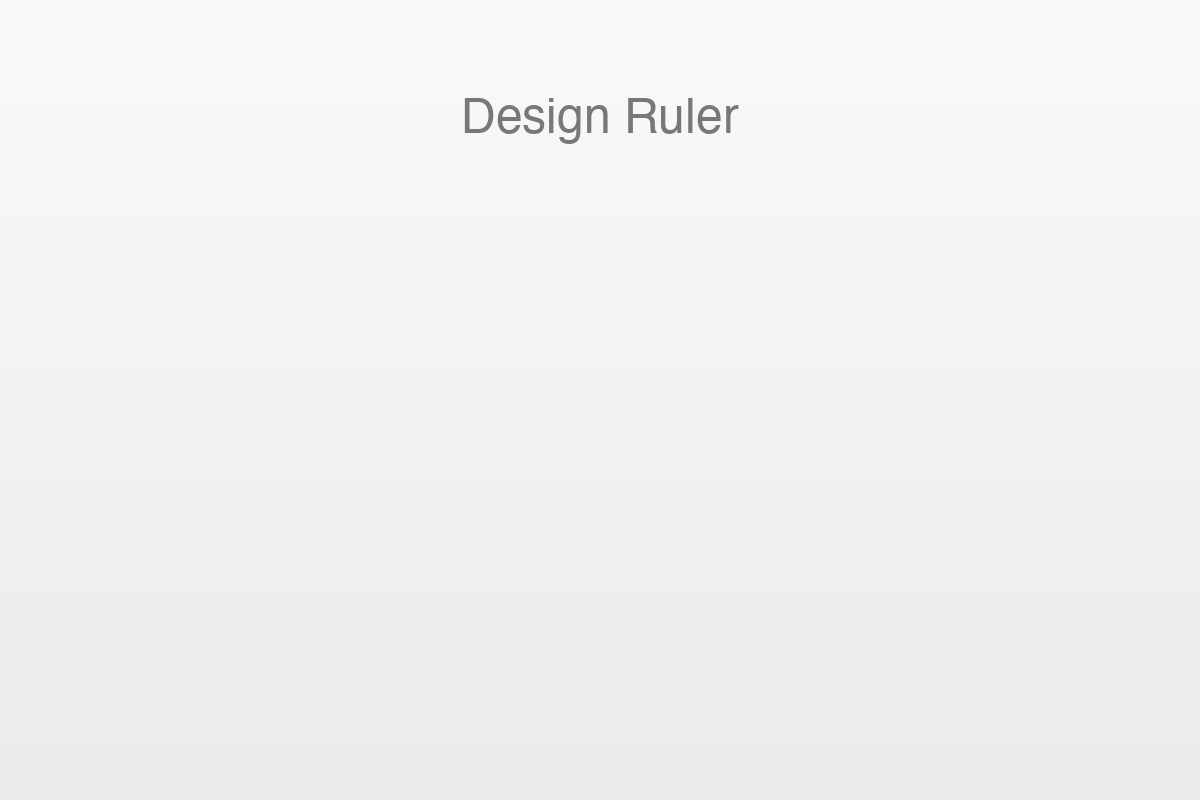
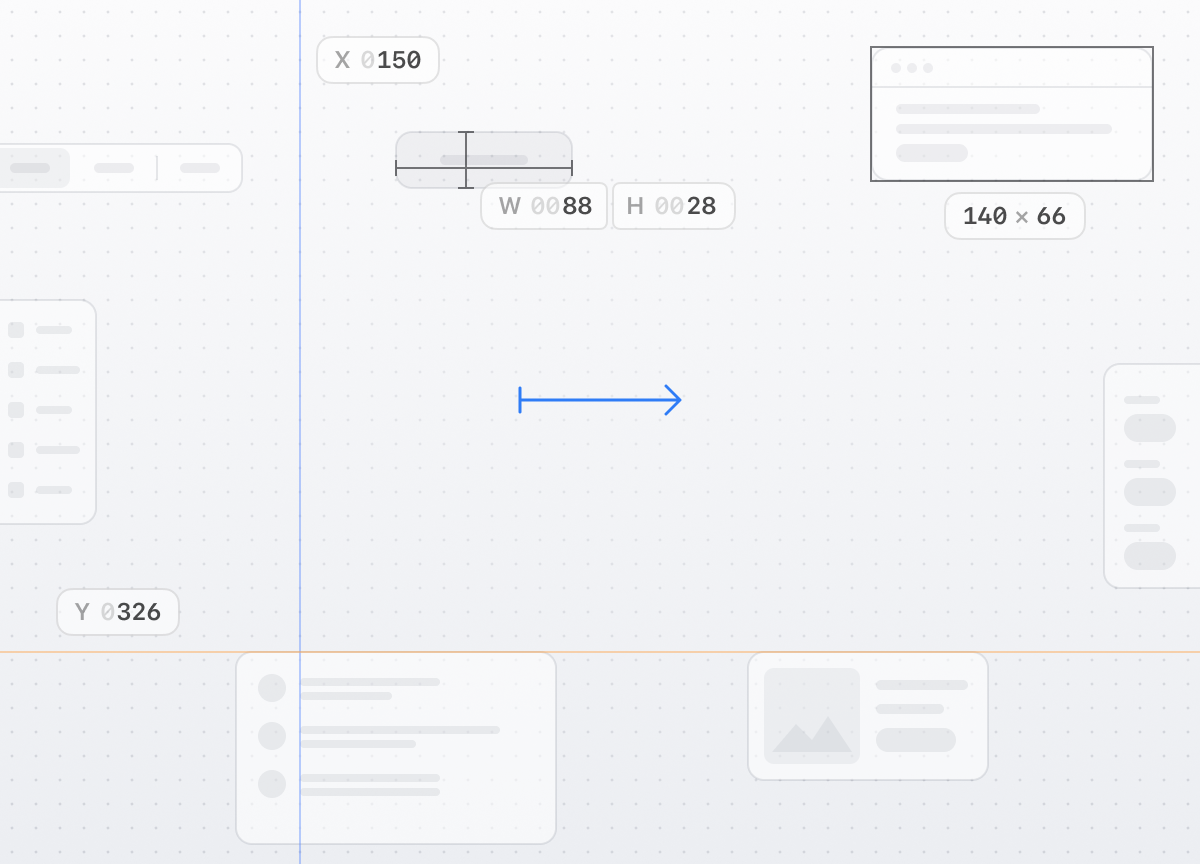
feat(dmg): ruler-themed installer background, 600x432 window
The DMG background now shows faint UI elements being inspected the way
Design Ruler does it: a crosshair measuring a button (W/H pill), a
selection around a card, and alignment guides with X/Y pills. Every
value is the real point distance in the window. The install arrow is
drawn as a measurement line.

The window grows to 600x432 because create-dmg's window size includes
the title bar (32pt on macOS 27). The content area is now ~600x400 with
the icons vertically centered, and the art is 1200x864 so the bottom
stays covered when the title bar is shorter.

diff --git a/CLAUDE.md b/CLAUDE.md
@@ -99,7 +99,7 @@ Scripts (scripts/)
   ├─ create-dmg.sh                 — branded DMG from a built .app (shared by ci + release)
   ├─ check-library-validation.sh   — fails if dyld would refuse an embedded framework at launch
   ├─ generate-appcast.sh           — Sparkle appcast.xml generation from env vars
-  └─ assets/dmg-background.png     — 1200×800 branded DMG background
+  └─ assets/dmg-background.png     — 1200×864 branded DMG background (600×432 window)
 ```
 
 ### Key Design Principles
@@ -768,7 +768,7 @@ nothing captured).
 - Code-signed with Developer ID Application (Hardened Runtime, empty entitlements)
 - Notarized via `notarytool submit --wait` (credentials passed inline) + `stapler staple` on the DMG
 - DMG built by `scripts/create-dmg.sh` (wraps `create-dmg`): stages only the `.app`, branded
-  1200x800 background tagged 144 DPI, app icon + /Applications alias. Both CI and release use it,
+  1200x864 background tagged 144 DPI, app icon + /Applications alias. Both CI and release use it,
   so a green CI run exercises the release DMG path
 - Three GitHub Actions workflows (`gh` steps authenticate via `GH_TOKEN: ${{ github.token }}`):
   - `ci.yml`: push to `main` / PR / manual → ESLint + Prettier, `swift build`, ad-hoc signed
@@ -990,6 +990,6 @@ Bugs encountered and fixed — avoid re-introducing these:
 - [ ] Menu bar dropdown shows assigned shortcut symbols next to command names
 - [ ] `codesign --verify --deep --strict` passes on Release build
 - [ ] DMG opens with app icon and /Applications alias (no extra plist/log files)
-- [ ] DMG background fills the 600x400 window (not cropped to the top-left quarter)
+- [ ] DMG background fills the 600x432 window (not cropped to the top-left quarter), icons centered vertically
 - [ ] Settings About shows the tagged version, not 1.0
 - [ ] Tag push triggers CI and produces signed, notarized DMG
